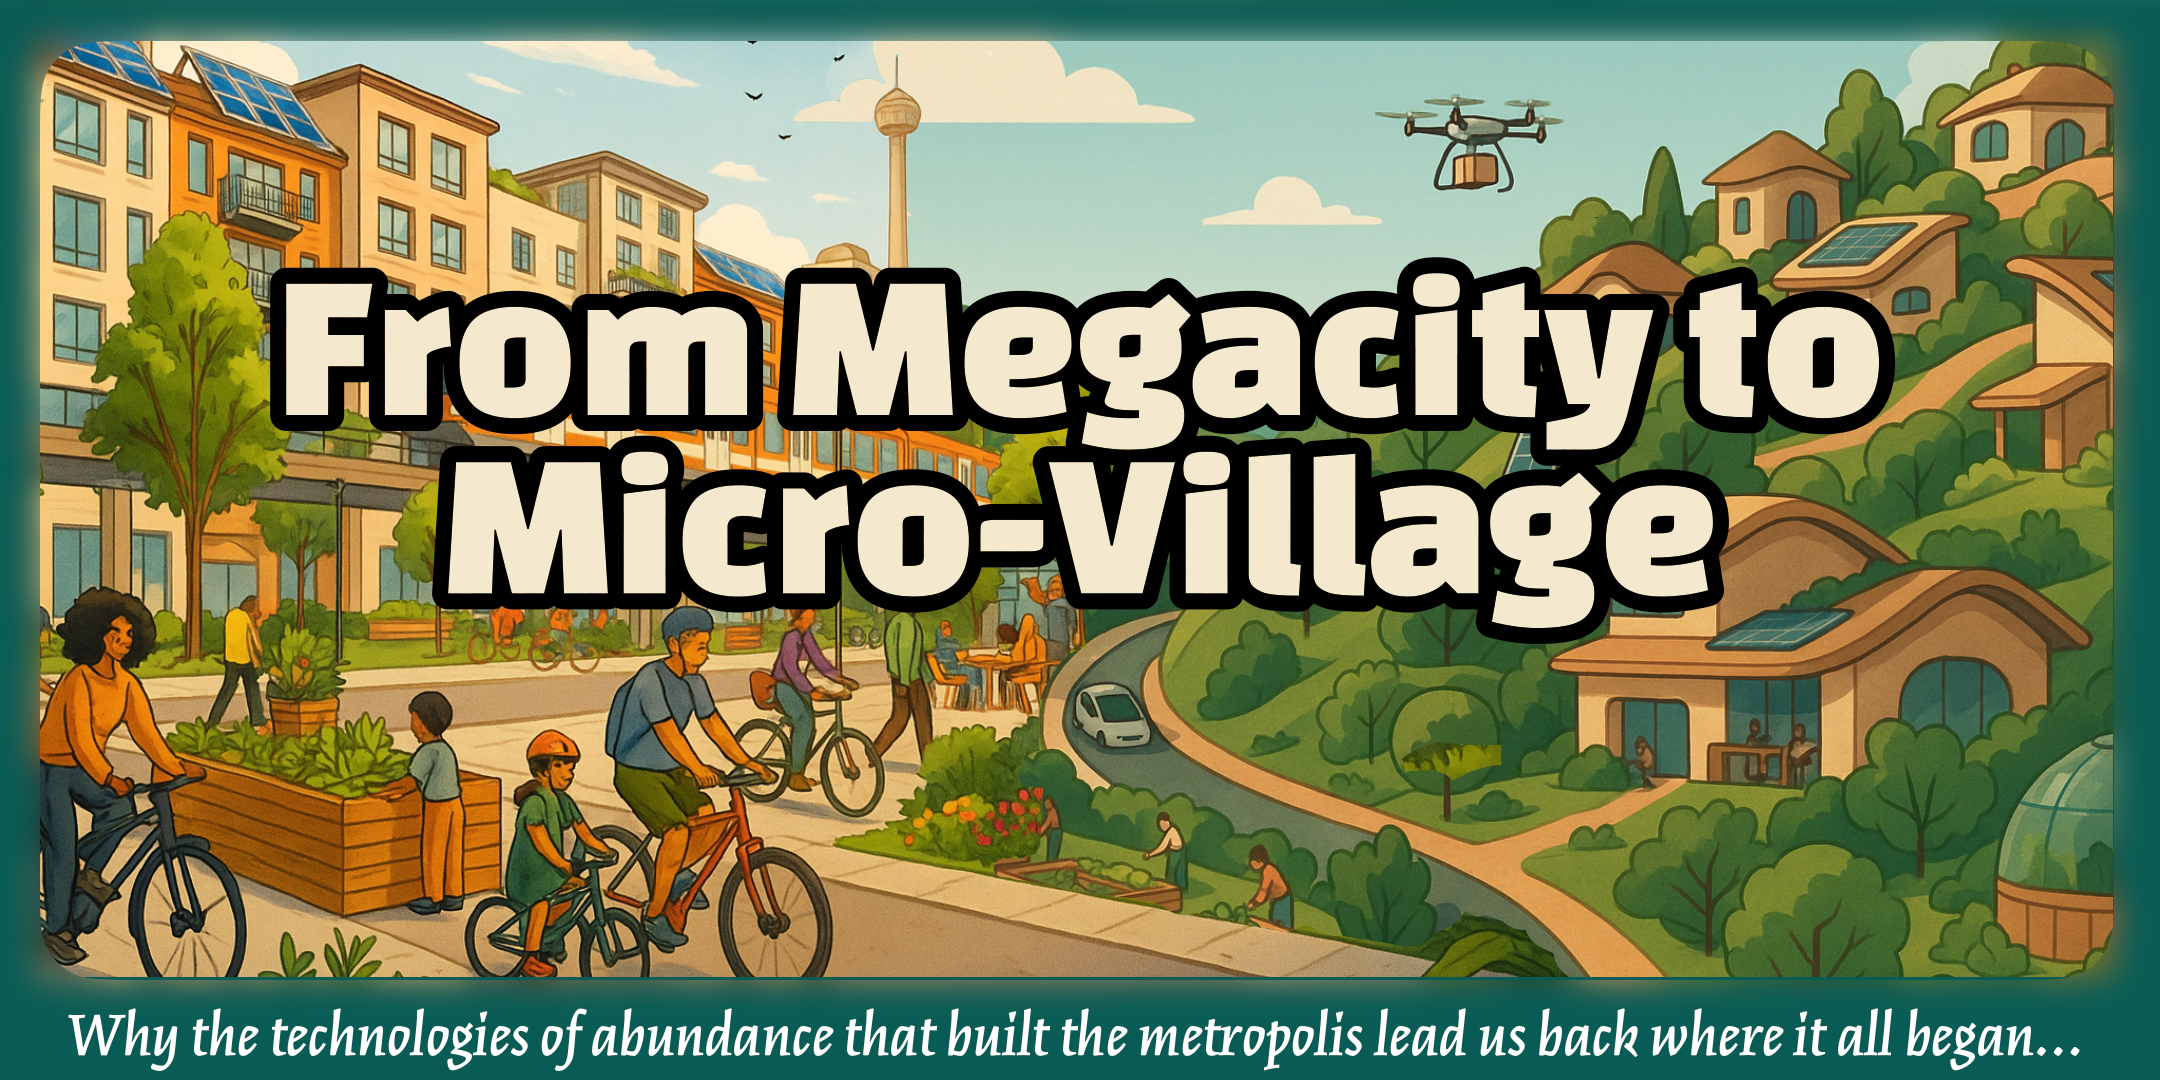
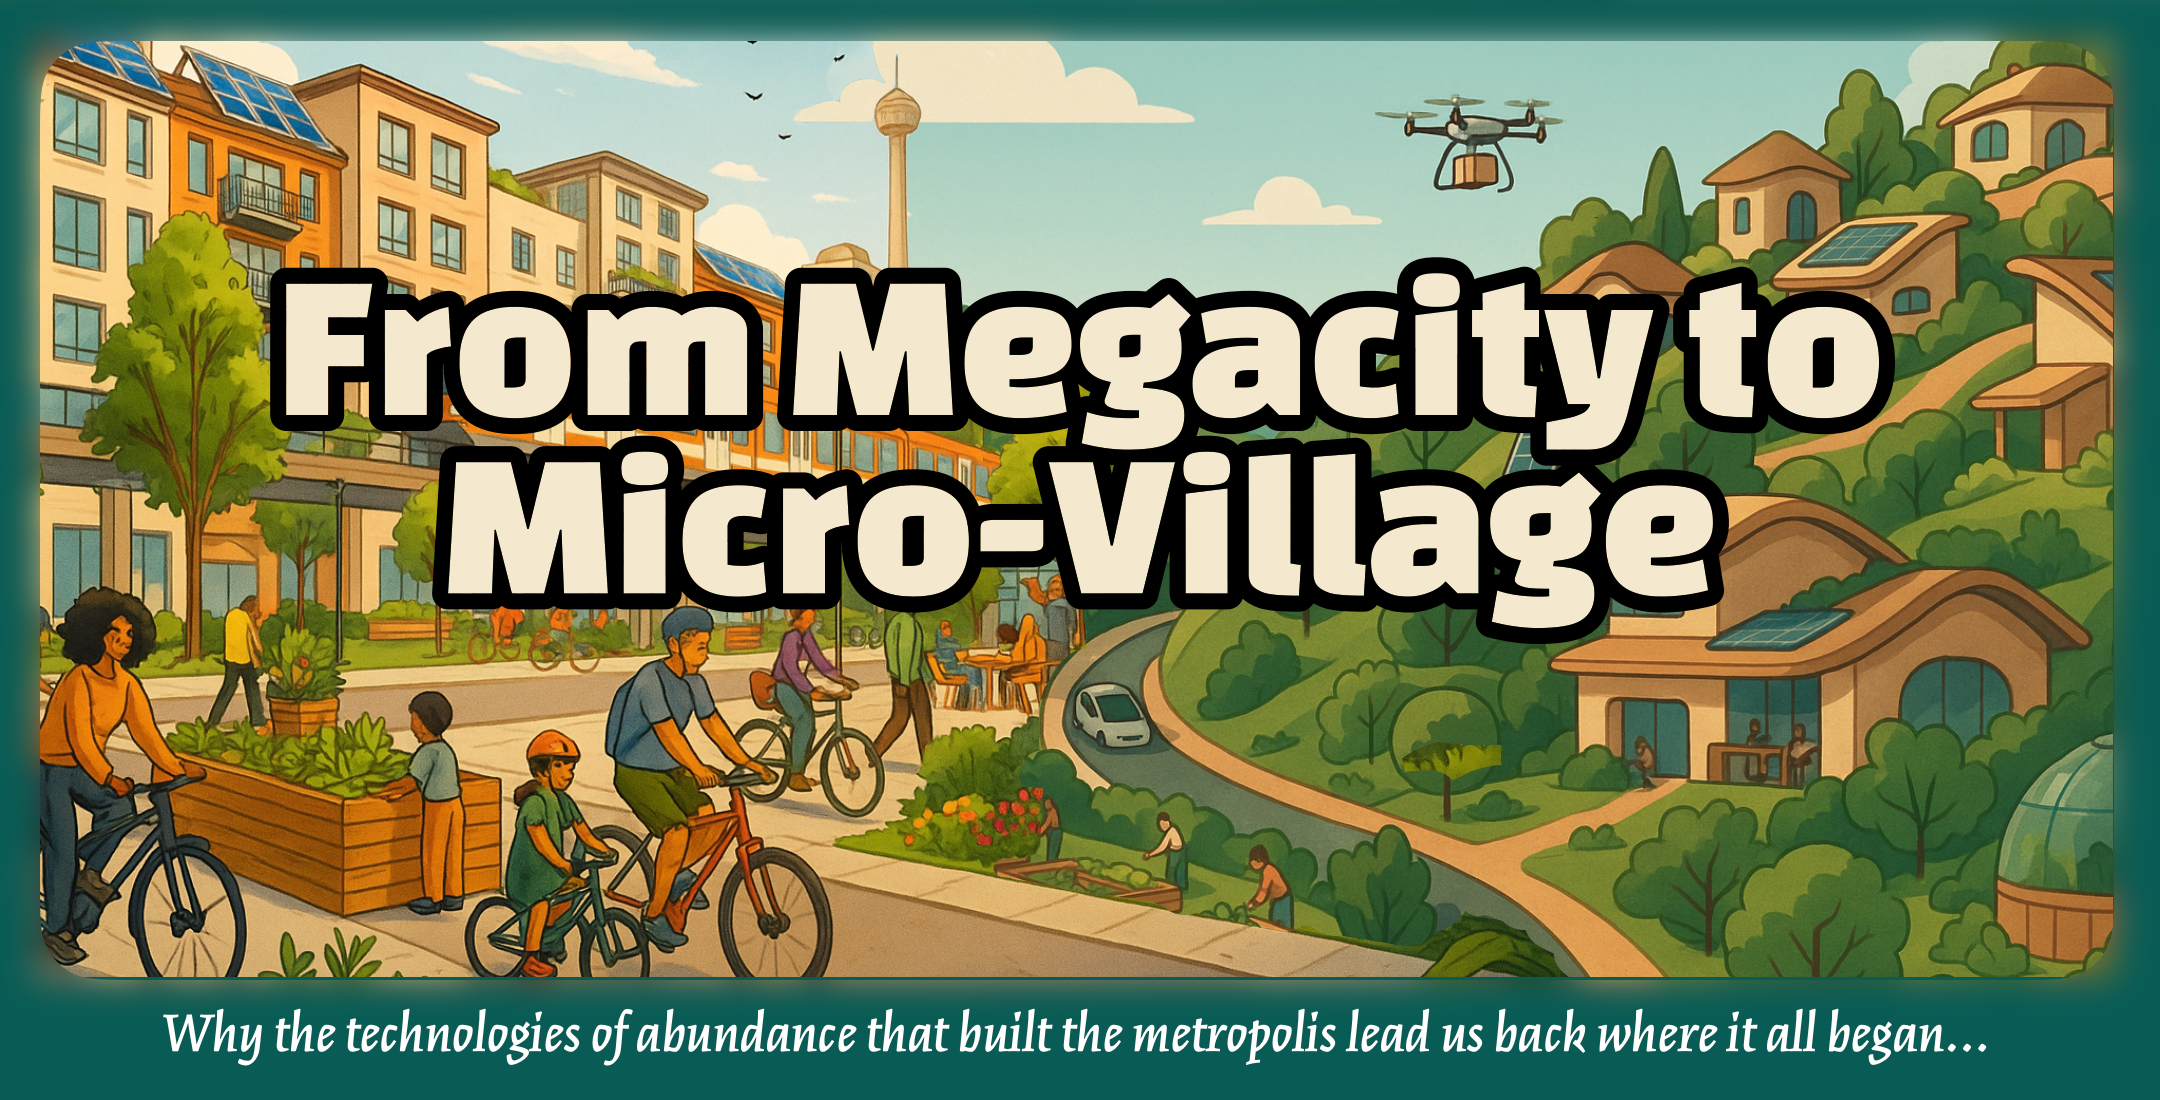
minor edits to header image and alt text

diff --git a/index.html b/index.html
@@ -45,8 +45,8 @@
 </head>
 <body>
 <header>
- <img src="images/urbanist-exurb-header.png" width="2160" height="1080"
-      alt="From Megacity to Micro-Village — Why the same technologies that built the metropolis now point beyond it">
+ <img src="images/urbanist-exurb-header.png" width="2160" height="1100"
+      alt="From Megacity to Micro-Village — Why the technologies of abundance that built the metropolis lead us back where it all began…">
 </header>
 
 <section id="intro">
